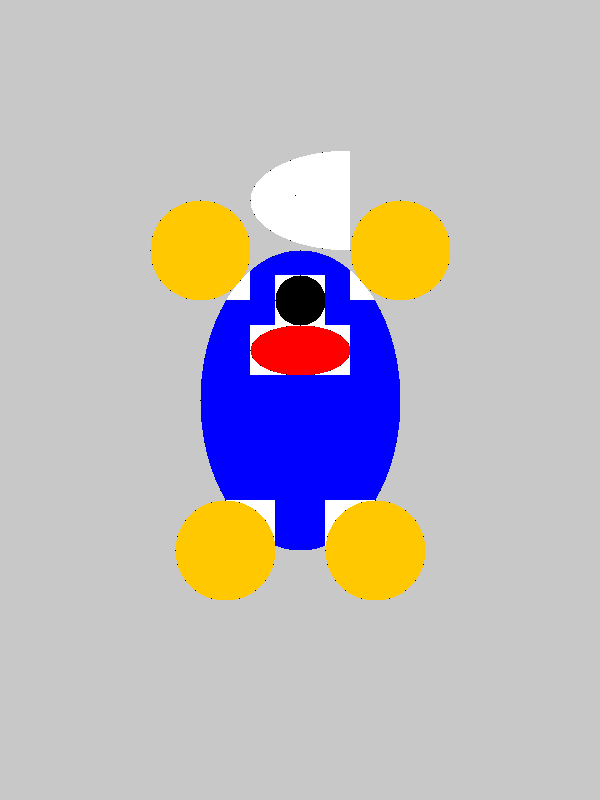
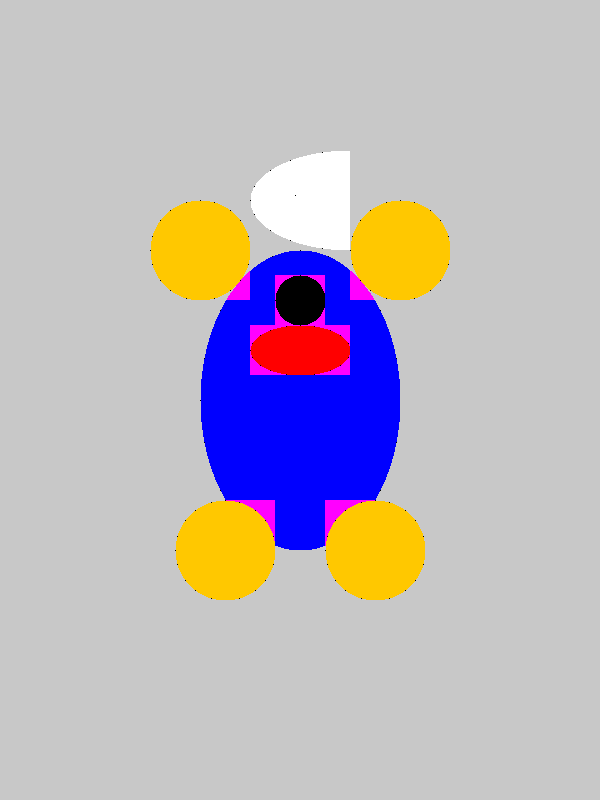
Uodate gopher

diff --git a/src/go/picasso/main.go b/src/go/picasso/main.go
@@ -25,6 +25,14 @@ func main() {
 	draw.Draw(base, image.Rect(175, 500, 275, 600), paws(), image.Point{0, 0}, draw.Over)
 	draw.Draw(base, image.Rect(325, 500, 425, 600), paws(), image.Point{0, 0}, draw.Over)
 
+	for x := range r.Max.X {
+		for y := range r.Max.Y {
+			if base.At(x, y) == color.White {
+				base.Set(x, y, color.RGBA{R: 255, G: 0, B: 255, A: 0})
+			}
+		}
+	}
+
 	out, _ := os.Create("picasso-gopher.png")
 	png.Encode(out, base)
 }
@@ -47,7 +55,7 @@ func body() image.Image {
 			case math.Abs(x2/a2+y2/b2) < 1:
 				base.Set(x, y, color.RGBA{R: 0, G: 0, B: 255, A: 255})
 			case math.Abs(x2/a2+y2/b2) > 1:
-				base.Set(x, y, color.RGBA{R: 255, G: 255, B: 255, A: 0})
+				base.Set(x, y, color.RGBA{R: 255, G: 0, B: 255, A: 0})
 			default:
 				base.Set(x, y, color.Black)
 			}
@@ -74,7 +82,7 @@ func eyes() image.Image {
 			case math.Abs(x2/a2+y2/b2) < 1:
 				base.Set(x, y, color.RGBA{R: 255, G: 255, B: 255, A: 255})
 			case math.Abs(x2/a2+y2/b2) > 1:
-				base.Set(x, y, color.RGBA{R: 255, G: 255, B: 255, A: 0})
+				base.Set(x, y, color.RGBA{R: 255, G: 0, B: 255, A: 0})
 			default:
 				base.Set(x, y, color.Black)
 			}
@@ -101,7 +109,7 @@ func ears() image.Image {
 			case math.Abs(x2/a2+y2/b2) < 1:
 				base.Set(x, y, color.RGBA{R: 255, G: 200, B: 0, A: 255})
 			case math.Abs(x2/a2+y2/b2) > 1:
-				base.Set(x, y, color.RGBA{R: 255, G: 255, B: 255, A: 0})
+				base.Set(x, y, color.RGBA{R: 255, G: 0, B: 255, A: 0})
 			default:
 				base.Set(x, y, color.Black)
 			}
@@ -128,7 +136,7 @@ func mouth() image.Image {
 			case math.Abs(x2/a2+y2/b2) < 1:
 				base.Set(x, y, color.RGBA{R: 255, G: 0, B: 0, A: 255})
 			case math.Abs(x2/a2+y2/b2) > 1:
-				base.Set(x, y, color.RGBA{R: 255, G: 255, B: 255, A: 0})
+				base.Set(x, y, color.RGBA{R: 255, G: 0, B: 255, A: 0})
 			default:
 				base.Set(x, y, color.Black)
 			}
@@ -155,7 +163,7 @@ func nose() image.Image {
 			case math.Abs(x2/a2+y2/b2) < 1:
 				base.Set(x, y, color.RGBA{R: 0, G: 0, B: 0, A: 255})
 			case math.Abs(x2/a2+y2/b2) > 1:
-				base.Set(x, y, color.RGBA{R: 255, G: 255, B: 255, A: 0})
+				base.Set(x, y, color.RGBA{R: 255, G: 0, B: 255, A: 0})
 			default:
 				base.Set(x, y, color.Black)
 			}
@@ -182,7 +190,7 @@ func paws() image.Image {
 			case math.Abs(x2/a2+y2/b2) < 1:
 				base.Set(x, y, color.RGBA{R: 255, G: 200, B: 0, A: 255})
 			case math.Abs(x2/a2+y2/b2) > 1:
-				base.Set(x, y, color.RGBA{R: 255, G: 255, B: 255, A: 0})
+				base.Set(x, y, color.RGBA{R: 255, G: 0, B: 255, A: 0})
 			default:
 				base.Set(x, y, color.Black)
 			}

diff --git a/slides.md b/slides.md
@@ -792,7 +792,6 @@ layout: fact
 And that's how Pablo Picasso used Go to paint his famous Gopher
 
 <img src="/images/leonardo-da-vinci.jpg" class="absolute top-5 left-15" style="width: 15%; height: auto;"/>
-<img src="/images/Mona_Lisa,_by_Leonardo_da_Vinci.jpg" class="absolute bottom-5 right-15" style="width: 10%; height: auto;"/>
 <img v-click src="/images/picasso-gopher.png" class="absolute top-10 left-80" style="width: 38%; height: auto;"/>
 
 <!-- Isn't it beautiful? -->
